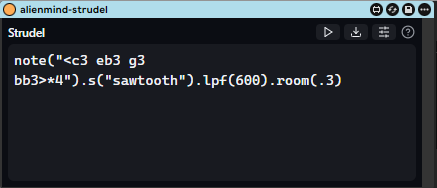
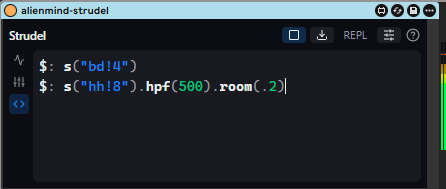
docs: update screenshots to reflect UI changes

Changed region(s): [[0.0, 0.0, 1.0, 1.0], [0.6247, 0.133, 0.833, 0.2394]]

diff --git a/doc/ABOUT.md b/doc/ABOUT.md
@@ -54,7 +54,7 @@ We also deliver a set of specialized, lightweight devices - some translating Str
 
 They are meant to be combined. The chain below is the whole idea in one track: **Strudel MIDI** sequences the notes (`<c3 c3 <c3 c#3>>*16`), **Strudel Synth** turns each one into sound (`s("sawtooth")`), and **Strudel Audio FX** filters the result (`.lpf(6613)`). Every line is Strudel; every knob is a real, automatable Live parameter.
 
-![A chain of three devices: Strudel MIDI sequences notes, Strudel Synth turns them into sound, Strudel Audio FX filters the result](screenshot-all-three-microdevices.png)
+
 
 ---
 
@@ -79,6 +79,10 @@ Type any Strudel pattern - whether it's synthesizers like `s("sawtooth")`, sampl
 
 **Launching a clip on the track starts it.** You do not have to press Run as well: launch a clip on the device's track and the pattern starts; stop the clip and it stops. On a track with no clips at all, Live's global Play does the same job. Run and the mappable **Play/Stop** parameter still work, and whichever moved last wins.
 
+![Strudel playing with its Studio window and sliders](screenshot-strudel-play-and-studio-with-sliders.gif)
+
+![Strudel driving a drum rack and effects](screenshot-strudel-drum-rack-and-effects.gif)
+
 ### Strudel Synth (`alienmind-strudel-synth.amxd`)
 
 The synth is the one device here that takes a **sound**, not a pattern. Type `s("sawtooth")`, add an envelope and effects (`.attack(0.2).lpf(800).room(.3)`), press the tick (or **Ctrl+Enter**), and every MIDI note the track sends plays that sound - from a clip, from your keyboard, or from a Strudel MIDI device sitting in front of it.
@@ -91,9 +95,11 @@ Two things to know:
 
 Any `slider()` in the sound (`.lpf(slider(1200, 100, 8000))`) binds to one of the eight native knobs (**S1..S8**), so you can automate the timbre or turn it from Push.
 
+![Strudel knobs showing slider parameters](screenshot-strudel-knobs.png)
+
 ### Strudel MIDI (`alienmind-strudel-midi.amxd`)
 
-![Strudel MIDI device](screenshot-midi.png)
+
 
 Two workflows in one device:
 - **Live mode (Run / Stop)** - evaluate real Strudel code and stream the result as live MIDI into whatever instrument sits after the device.
@@ -101,14 +107,15 @@ Two workflows in one device:
 
 ![Clip export and import - a pattern frozen to a MIDI clip, and read back](screenshot-midi-export-import.png)
 
-The editor features a **Full Studio** floating window, a native **Play/Stop** panel for macro-mapping, and a comprehensive **Help (?)** reference tailored to exactly what the device supports.
+![Exporting MIDI and applying effects](screenshot-strudel-midi-export-and-effects.gif)
 
-![The About screen and the Full Studio window](screenshot-about-and-studio.png)
+The editor features a native **Play/Stop** panel for macro-mapping, and a comprehensive **Help (?)** reference tailored to exactly what the device supports.
+
 ![The Strudel reference window](strudel-help.png)
 
 ### Strudel Drums MIDI (`alienmind-strudel-drums-midi.amxd`)
 
-![Strudel Drums MIDI device](screenshot-midi-drums.png)
+
 
 Built for driving Drum Racks. Instead of writing absolute pitches, write Strudel drum words (`bd`, `sd`, `hh`). 
 
@@ -118,7 +125,7 @@ Clicking the **Kit** button opens a dedicated visual mapper to route Strudel's v
 
 ### Strudel Drums Sampler (`alienmind-strudel-drums-sampler.amxd`)
 
-![Strudel Drums Sampler - the CODE screen](screenshot-drums-sampler.png)
+
 
 A self-contained instrument that fetches and plays samples from **drum-machine banks** driven by Strudel code. 
 
@@ -132,14 +139,14 @@ You can also browse the selected bank's sounds via the **Sounds** screen and aud
 
 ### Strudel Audio FX (`alienmind-strudel-fx.amxd`)
 
-![Strudel Audio FX - the effect line and its native dials](screenshot-fx.png)
+
 
 Brings Strudel's chainable DSP vocabulary to any audio track. Type a chain of Strudel effects, such as `.lpf(800).room(0.3).gain(1.2)`, and hit Enter. The parameters appear as **native Live dials** beside the text.
 
 - **Native, not HTML**: the dials are real Live parameters - automatable, MIDI-mappable, and paged on Push.
 - **Add Effect Menu**: clicking `(+)` opens an overlay to quickly append new DSP stages.
 
-![Strudel Audio FX - the Add Effect menu](screenshot-fx-2.png)
+
 
 ### Strudel Sample Browser (`alienmind-strudel-sample-browser.amxd`)
 

diff --git a/README.md b/README.md
@@ -16,16 +16,21 @@ The result is a set of **Max for Live devices** that bring [Strudel](https://str
 
 - **Generative sequencing in one line.** `note("c3 e3 g3 b3").sometimesBy(.3, x=>x.fast(2))` is a whole evolving part. Euclidean rhythms, polymeter, per-cycle alternation - things that are tedious to click into a piano roll are one expression in Strudel.
 - **The ultimate hybrid workflow.** By exposing Strudel's engine states directly to Live, you can map them to your **Ableton Push** or external MIDI controllers. Start and stop complex algorithmic sequences with physical hardware!
+
+![Strudel driving a drum rack and effects](doc/screenshot-strudel-drum-rack-and-effects.gif)
 - **A dedicated drum machine.** The new **Strudel Drums MIDI** device brings Strudel's generative drum language (`bd`, `sd`, `hh`) straight to your Ableton Drum Racks. It features a visual **Kit** mapper that natively persists in your Live set, letting you easily route algorithmic sequences to any custom kit!
 
 ![Strudel Drums MIDI Kit Mapping](doc/screenshot-midi-drums-mapping.png)
 
 - **A code-driven drum sampler.** The **Strudel Drums Sampler** plays samples itself: write `s("bd sd, hh*8")`, pick a drum-machine **bank**, and it fetches and plays that machine's sounds - sixteen voices, driven by code (or by MIDI notes in front of it).
 
-![Strudel Drums Sampler - write s(), pick a bank, it plays the machine](doc/screenshot-drums-sampler.png)
+
 
 - **It's really Live-native.** Launch a clip on the device's track and the pattern starts; stop it and the pattern stops. On a track with no clips, Live's own Play does the same. Patterns start on the bar, follow tempo automation, and notes land on the track the device sits on. Everything renders inside the device UI.
 - **From sketch to clip.** The MIDI device can freeze any pattern into a regular MIDI clip (and read clips back into mini-notation), so generative sketches become ordinary arrangeable material. It also doubles as a two-way translator for *understanding* Strudel: freeze a pattern you cannot quite read into a clip and **see** it in the piano roll, or drop a clip you already know and read its mini-notation - each side explains the other.
+
+![Exporting MIDI and applying effects](doc/screenshot-strudel-midi-export-and-effects.gif)
+
 - **Room to type, help that follows you.** A **Full Studio** floating window (from **About > Advanced**) is a big editor over the same pattern as the device view (one pattern, one scheduler), and every Strudel-taking device has a `?` opening a pinned reference of exactly what THESE devices support - per device, offline, with an honest works / not-yet status on every entry, narrowing to whatever your caret is on.
 - **A synth you play with your hands.** The **Strudel Synth** takes a SOUND rather than a pattern - `s("sawtooth").lpf(800).room(.3)` - and every MIDI note the track sends plays it. Your clip, your keyboard or another Strudel device in front is the trigger, and any `slider()` in the sound lands on a native knob, so the timbre automates and reaches Push.
 - **It keeps its sounds when the network goes.** Every sample and sample map any device fetches is cached in the device page, so a set reopened offline still plays the sounds it played before. Synths never needed the network at all.
@@ -52,6 +57,8 @@ We also deliver **additional utility instruments** that showcase different capab
 
 ## Controls: your sliders on Ableton's knobs
 
+![Strudel playing with Studio and sliders](doc/screenshot-strudel-play-and-studio-with-sliders.gif)
+
 A `slider()` in your pattern becomes one of the device's eight native dials, in source
 order - automatable, MIDI-mappable, on Push:
 
@@ -59,18 +66,11 @@ order - automatable, MIDI-mappable, on Push:
 s("sawtooth").lpf(slider(500, 100, 1000))
 ```
 
-The dial travels the slider's own range (100..1000 here, not 0..1) and starts where the
-code says. Turning it changes the sound immediately.
-
-Name it, and give it a unit, and the dial says so too:
+As an extension to slider(), we can give it units and a name, and the dial says so too:
 
 ```js
 s("sawtooth").lpf(slider(500, 100, 1000, 1, { name: 'cutoff', unit: 'Hz' }))
 ```
-
-That is still ordinary Strudel - the same line runs on strudel.cc, which ignores the
-extra options rather than choking on them. See
-[STRUDEL-SUPPORT.md](doc/STRUDEL-SUPPORT.md) for what carries and what does not.
 
 ## Quick Examples
 